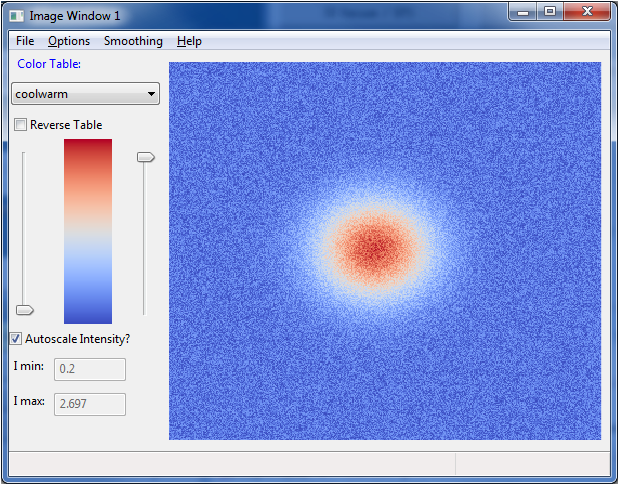
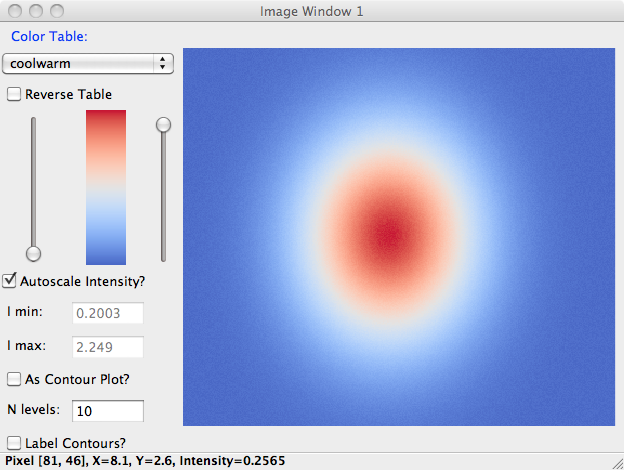
update plotting doc

diff --git a/doc/plotting/index.rst b/doc/plotting/index.rst
@@ -20,8 +20,8 @@ is easy and can be done either with keyboard commands such as Ctrl-C or
 from dropdown menus on the graphic elements.
 
 
-Line Plots
-==============
+2-D Line Plots:
+=========================
 
 Larch provides a few functions for making line plots, with the principle
 function being called :func:`plot`.  The :func:`plot` function takes two
@@ -54,36 +54,6 @@ control which one to draw to.
 
    This is essentially the same a :func:`plot`, but with the option  `new=True`.
    The rest of the arguments are as listed in  :ref:`Table of Plot Arguments <plotopt_table>`.
-
-.. method:: scatterplot(x, y, **kws)
-
-
-   A scatterplot differs from a line plot in that the set of x, y values
-   are not assumed to be in any particular order, and so are not connected
-   with a line.  Arguments are very similar to those for :func:`plot`, and
-   are listed in  :ref:`Table of Plot Arguments <plotopt_table>`.
-
-
-.. method:: update_trace(x, y, trace=1, win=1, side='left')
-
-   updates an existing trace.
-
-   :param x:     array of x values
-   :param y:     array of y values
-   :param win:   integer index of window for plot (1 is the first window)
-   :param trace: integer index for the trace (1 is the first trace)
-   :param side:  which y axis to use ('left' or 'right').
-
-   This function is particularly useful for data to be plotted is changing
-   and you wish to update traces from a previous :func:`plot` with new
-   data without completely redrawing the entire plot.  Using this method
-   is substantially faster than replotting, and should be used for dynamic
-   plots, such as plottting the progress of some function during a fit.
-   Note that you cannot change properties such as color here -- these will
-   be inherited from the existing trace.  In that sense, most of the
-   properties of the trace and of the plot as a whole remain unchanged, it
-   just happens that the data for the trace has been replaced.
-
 
 .. _plotopt_table:
 
@@ -184,10 +154,95 @@ same meaning, as indicated by the right-most column.
  Again, most of these values can be configured interactively from the  plot window.
 
 
+.. method:: scatterplot(x, y, **kws)
+
+   A scatterplot differs from a line plot in that the set of x, y values
+   are not assumed to be in any particular order, and so are not connected
+   with a line.  Arguments are very similar to those for :func:`plot`, and
+   are listed in  :ref:`Table of Plot Arguments <plotopt_table>`.
+
+.. method:: update_trace(x, y, trace=1, win=1, side='left')
+
+   updates an existing trace.
+
+   :param x:     array of x values
+   :param y:     array of y values
+   :param win:   integer index of window for plot (1 is the first window)
+   :param trace: integer index for the trace (1 is the first trace)
+   :param side:  which y axis to use ('left' or 'right').
+
+   This function is particularly useful for data to be plotted is changing
+   and you wish to update traces from a previous :func:`plot` with new
+   data without completely redrawing the entire plot.  Using this method
+   is substantially faster than replotting, and should be used for dynamic
+   plots, such as plottting the progress of some function during a fit.
+   Note that you cannot change properties such as color here -- these will
+   be inherited from the existing trace.  In that sense, most of the
+   properties of the trace and of the plot as a whole remain unchanged, it
+   just happens that the data for the trace has been replaced.
+
+.. method:: plot_text(text, x, y, win=1, side='left', rotation=None, ha='left', va='center')
+
+    add text at x, y coordinates of the plot window
+
+    :param text:  text to draw
+    :param  x:     x position of text
+    :param  y:     y position of text
+    :param  win:   index of Plot Frame (0, 1, etc).  May create a new Plot Frame.
+    :param  side:  which axis to use ('left' or 'right') for coordinates.
+    :param  rotation:  text rotation. angle in degrees or 'vertical' or 'horizontal'
+    :param  ha:      horizontal alignment ('left', 'center', 'right')
+    :param  va:      vertical alignment ('top', 'center', 'bottom', 'baseline')
+
+
+.. method:: plot_arrow(x1, y1, x2, y2, win=1, **kws)
+
+    draw arrow from x1, y1 to x2, y2.
+
+    :param    x1: starting x coordinate
+    :param    y1: starting y coordinate
+    :param    x2: endnig x coordinate
+    :param    y2: ending y coordinate
+    :param  win:   index of Plot Frame (0, 1, etc).  May create a new Plot Frame.
+    :param    side: which axis to use ('left' or 'right') for coordinates.
+    :param    shape:  arrow head shape ('full', 'left', 'right')
+    :param    fg:     arrow fill color ('black')
+    :param    width:  width of arrow line (in points. default=0.01)
+    :param    head_width:  width of arrow head (in points. default=0.1)
+    :param    overhang:    amount the arrow is swept back (in points. default=0)
+
+
+.. method:: save_plot(filename, dpi=300, format=None, win=1, facecolor='w', edgecolor='w', quality=75)
+
+    save the current plot to a PNG or other output formats.
+
+    :param filename: name of output file
+    :param dpi:  resolution (dots per inch)
+    :param format:  output format (one of 'png', 'pdf', 'jpeg', 'jpg','tiff' or 'svg')
+    :param  win:   index of Plot Frame (0, 1, etc).  May create a new Plot Frame.
+    :param facecolor:  color of plot background (not supported for all formats)
+    :param edgecolor:  color of plot frame color (not supported for all formats)
+    :param quality:    image quality (JPEG only?)
+
+.. method:: save_image(filename, dpi=300, format=None, win=1, facecolor='w', edgecolor='w', quality=75)
+
+    save the current 2D image from :meth:`imshow` to a PNG or other output formats.
+
+    :param filename: name of output file
+    :param dpi:  resolution (dots per inch)
+    :param format:  output format (one of 'png', 'pdf', 'jpeg', 'jpg','tiff' or 'svg')
+    :param  win:   index of Plot Frame (0, 1, etc).  May create a new Plot Frame.
+    :param facecolor:  color of plot background (not supported for all formats)
+    :param edgecolor:  color of plot frame color (not supported for all formats)
+    :param quality:    image quality (JPEG only?)
+
+.. method:: get_display(win=1)
+
+   return the underlying Display object.
+
 
 Plot Examples
 ~~~~~~~~~~~~~~
-
 
 Here a a few example plots, to whet your appetite::
 
@@ -212,10 +267,10 @@ will make this plot:
    :width: 80 %
 
 
-Using the Plot Windows
-~~~~~~~~~~~~~~~~~~~~~~~~~~
+Interactive Use of the Plot Windows
+~~~~~~~~~~~~~~~~~~~~~~~~~~~~~~~~~~~~~~~~
 
-From the main plot window, you can perform several tasks:
+From the main plot window, you can perform several tasks interactively:
 
 
 **Getting Cursor Position**:
@@ -362,12 +417,18 @@ image, generated with::
     iy = arange(ny)
     x  =  ix / 10.
     y  = -2 + iy / 10.0
-    dat = 0.2 + (0.5*random.random(size=nx*ny).reshape(ny, nx) +
-                 2.0*gauss2d(ix, iy, 190,   176,  37,  32))
+
+    dat = 0.2 + (0.05*random.random(size=nx*ny).reshape(ny, nx) +
+                 2.0*gauss2d(ix, iy, 190,   176,  57,  69))
 
     imshow(dat, x=x, y=y, colormap='coolwarm')
 
 is shown below:
 
 .. image:: ../images/plot_image1.png
+   :width: 80 %
+
+and as a contour plot, with a different color table:
+
+.. image:: ../images/plot_contour1.png
    :width: 80 %
